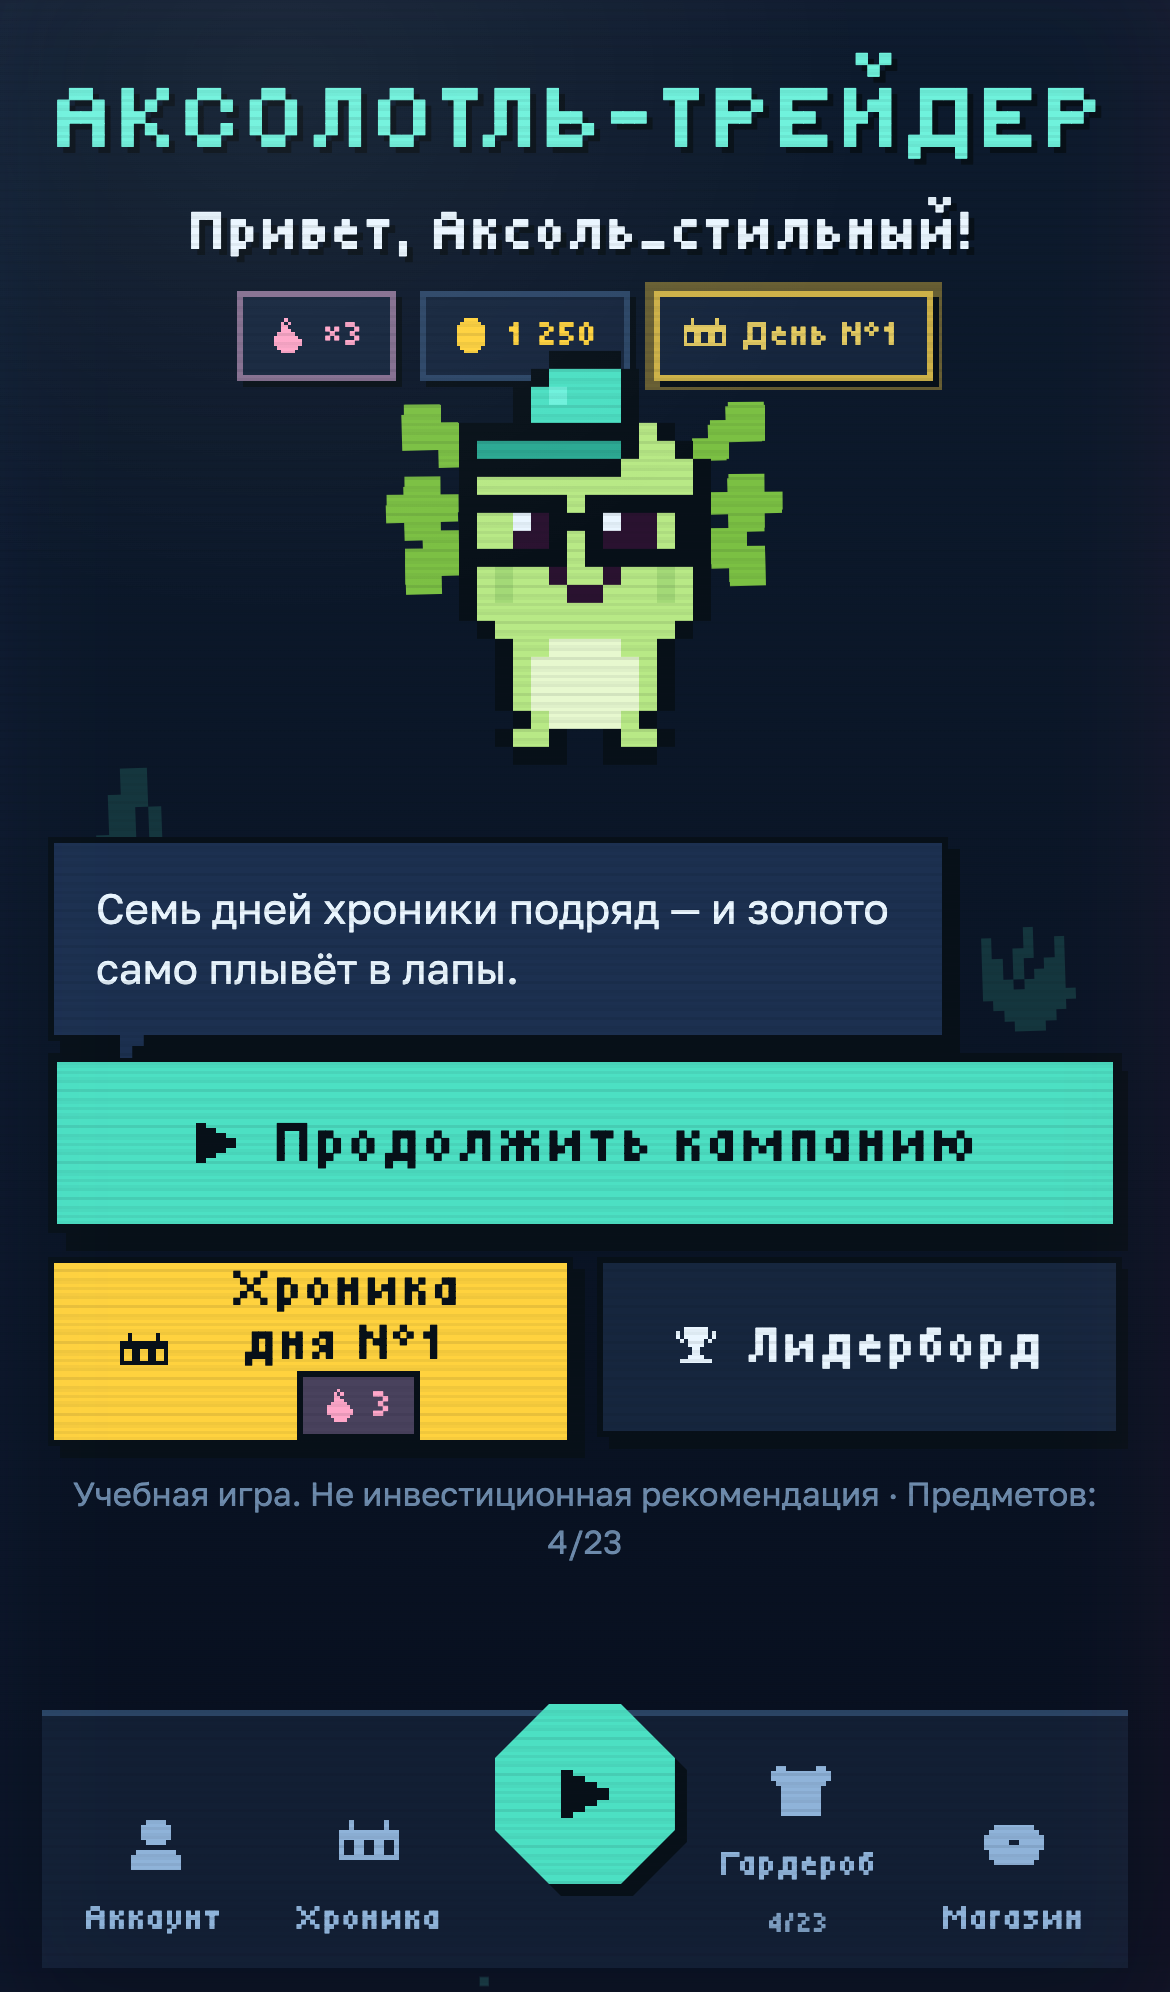
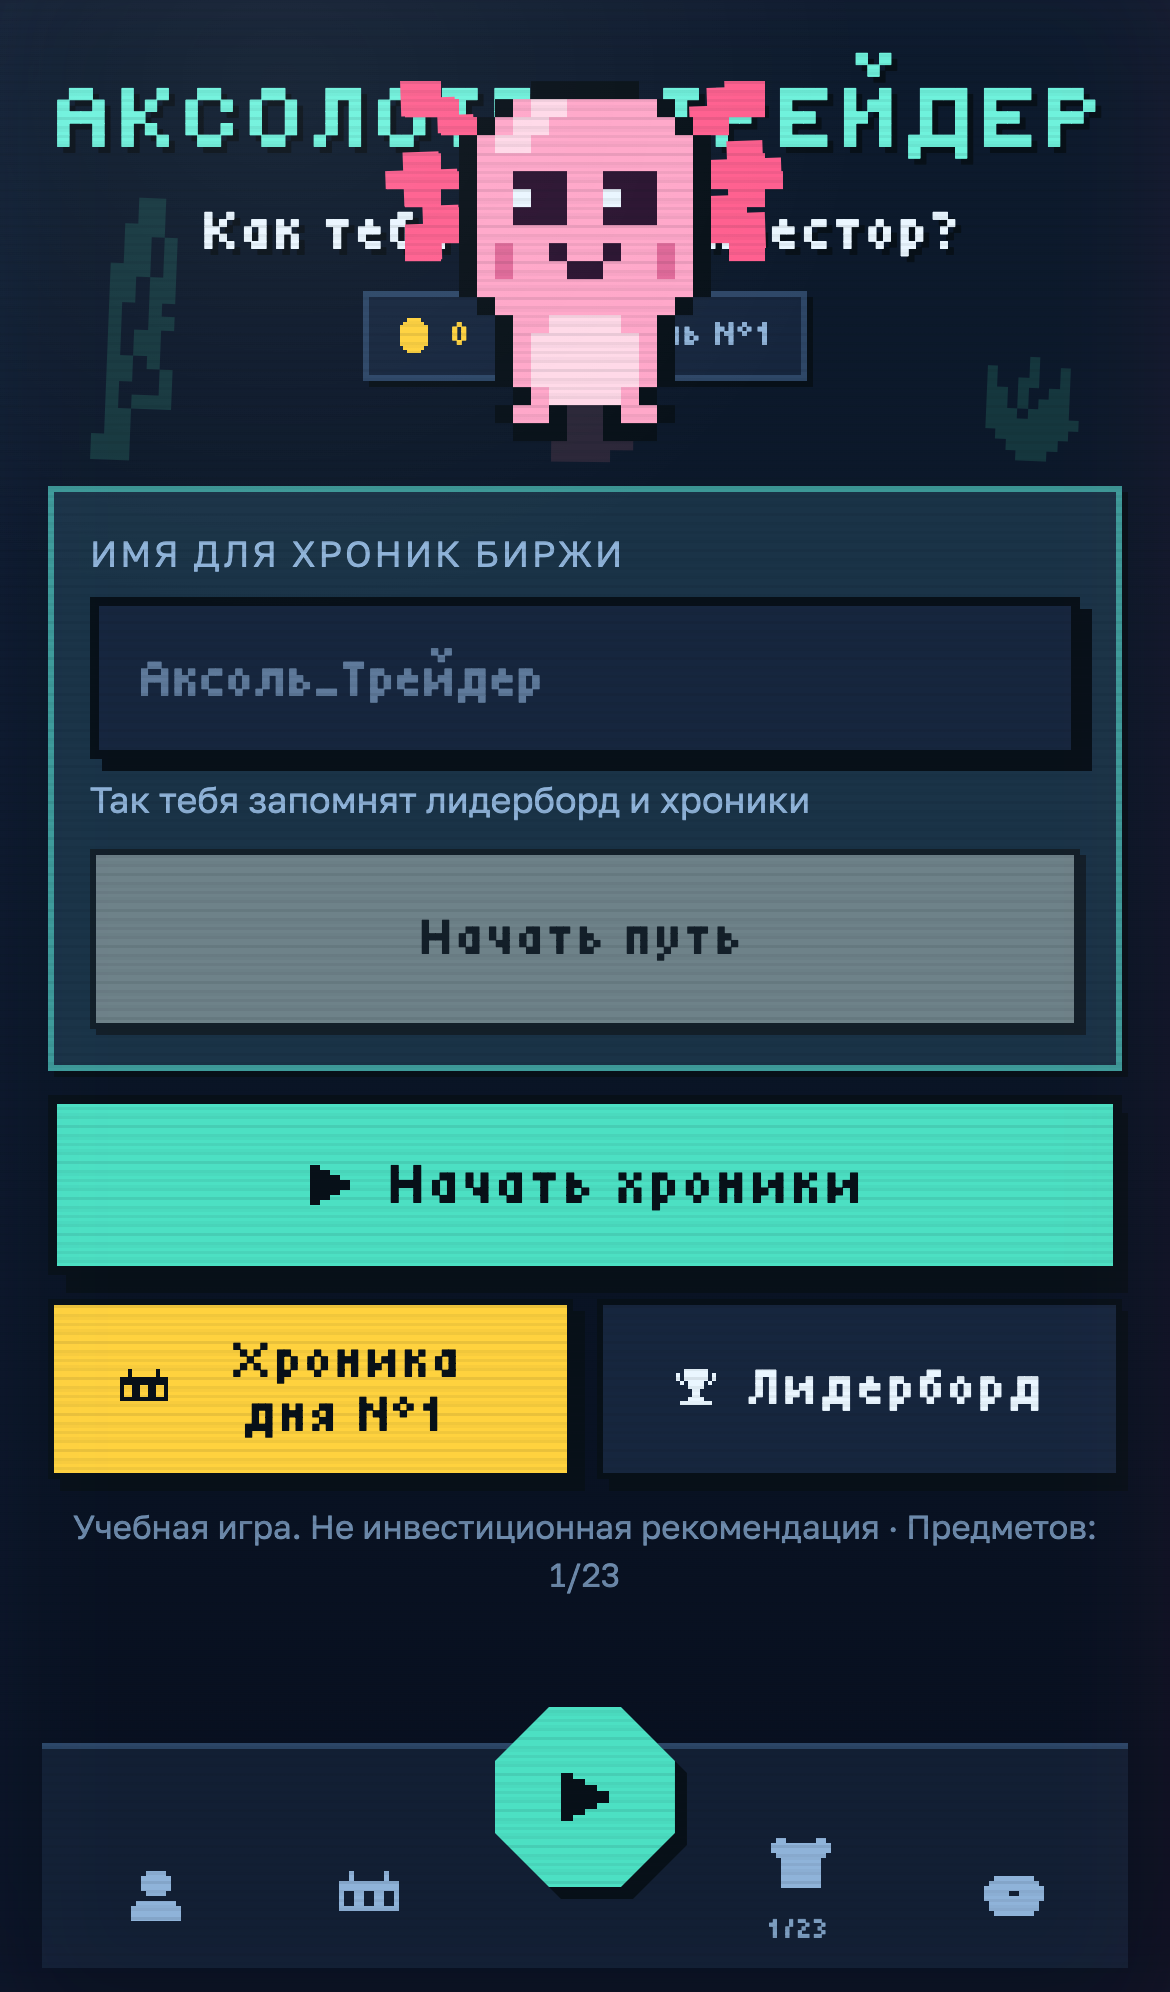
ux: таб-бар без подписей — только иконки, компактнее (aria-label сохранены)

diff --git a/client/src/screens/hub.css b/client/src/screens/hub.css
@@ -460,7 +460,7 @@
   gap: 4px;
   align-items: end;
   margin-top: 6px;
-  padding: 8px 4px 4px;
+  padding: 6px 4px 3px;
   border-top: 2px solid var(--line);
   background: color-mix(in srgb, var(--panel) 68%, var(--bg-deep));
 }
@@ -477,10 +477,10 @@
   flex-direction: column;
   align-items: center;
   justify-content: center;
-  gap: 3px;
+  gap: 2px;
   width: 100%;
-  min-height: 52px;
-  padding: 4px 2px;
+  min-height: 42px;
+  padding: 3px 2px;
   color: var(--ink-dim);
   cursor: pointer;
 }
@@ -522,10 +522,6 @@
   background: color-mix(in srgb, var(--aqua) 20%, var(--panel));
   border: 2px solid var(--aqua);
   box-shadow: var(--shadow-1);
-}
-
-.hub-tab.is-on .hub-tab__label {
-  color: var(--aqua-hi);
 }
 
 /* центральная ▶: приподнятая «пиксель-круглая» кнопка 68px.

diff --git a/client/src/screens/HubScreen.tsx b/client/src/screens/HubScreen.tsx
@@ -781,9 +781,8 @@ export function HubScreen(props: HubScreenProps) {
                 <span className="hub-tab__ico" aria-hidden="true">
                   {t.icon}
                 </span>
-                <span className="hub-tab__label">{t.label}</span>
                 {t.id === 'wardrobe' && (
-                  <span className="hub-tab__meta">
+                  <span className="hub-tab__meta" title="Собрано предметов">
                     {ownedIds.length}/{itemsTotal}
                   </span>
                 )}
